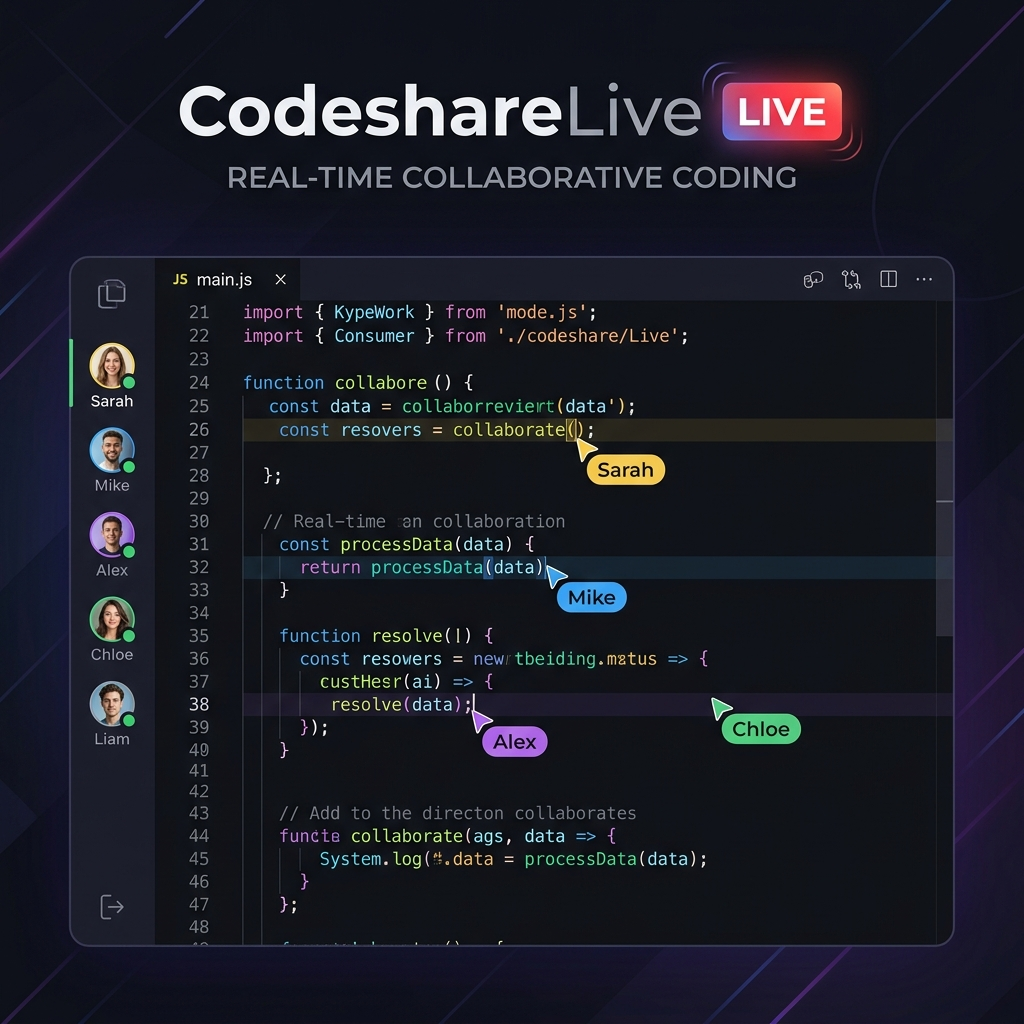
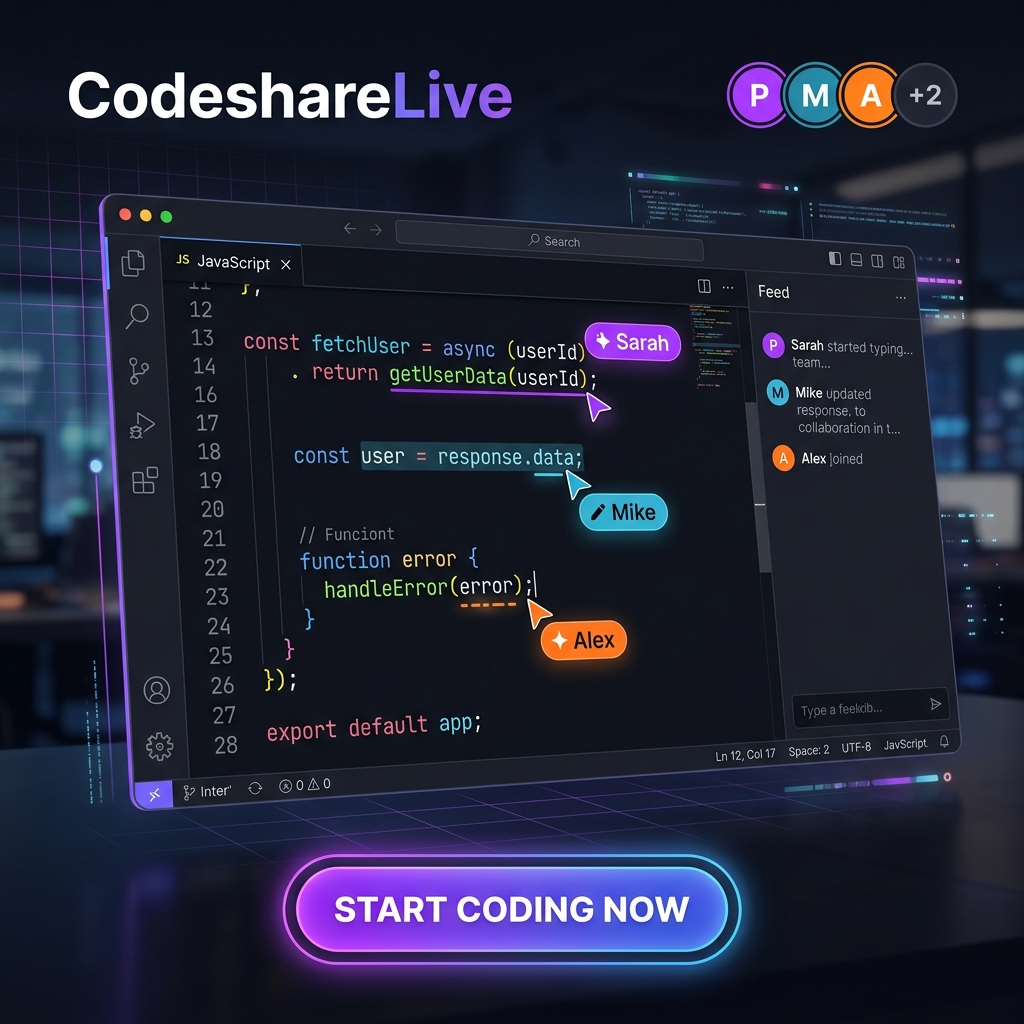
seo: update OG image with CTA and recommended 1200x630 dimensions

diff --git a/client/src/app/layout.js b/client/src/app/layout.js
@@ -34,7 +34,7 @@ export const metadata = {
             {
                 url: "/og-image.png",
                 width: 1200,
-                height: 1200,
+                height: 630,
                 alt: "CodeshareLive - Real-time Collaborative Coding",
             },
         ],